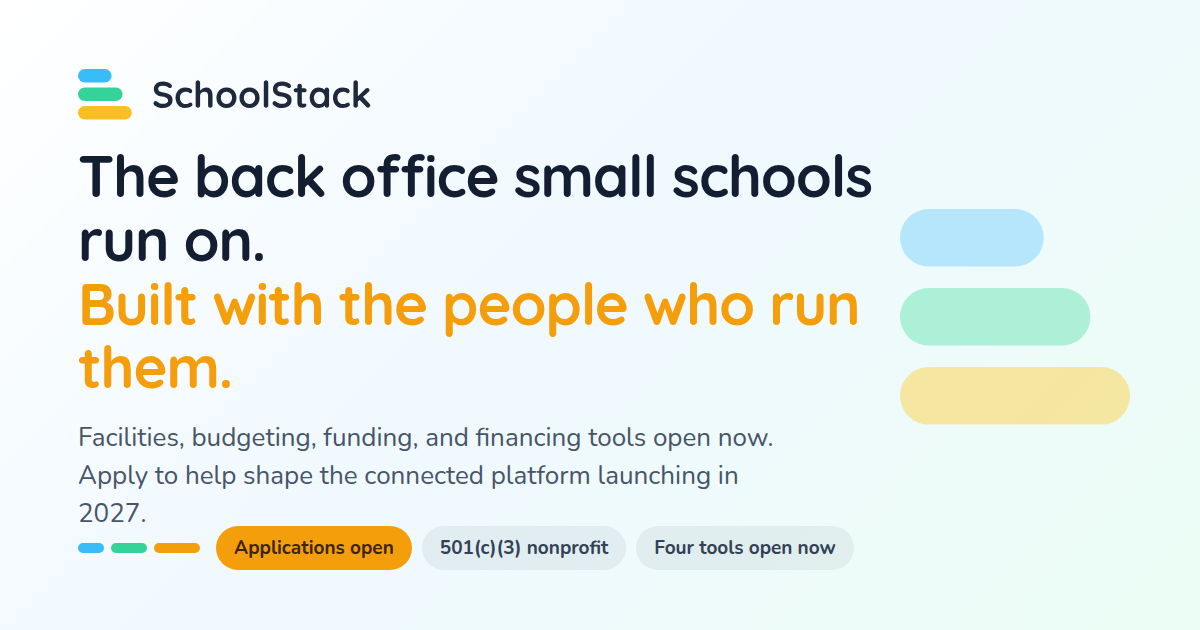
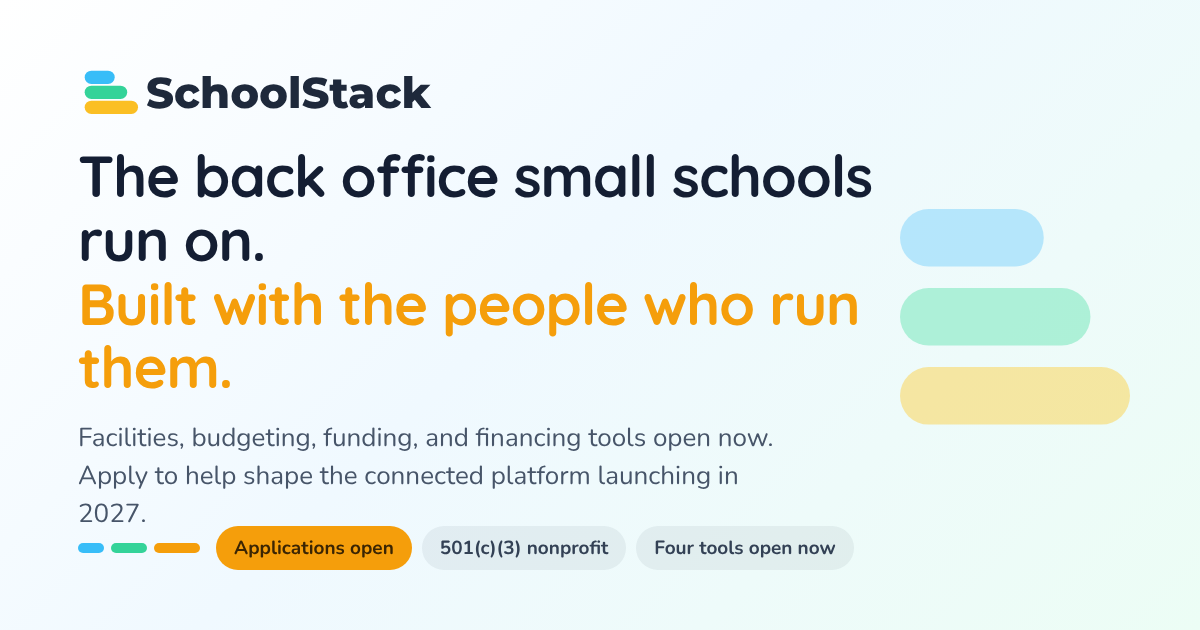
Ship the new SchoolStack wordmark
The owner supplied a new primary logo: the same three bars, tighter and
longer, with the wordmark as outlined paths. It replaces the old
wordmark in the nav, the footer, and the share card.

The files take a content hash in their names because _headers caches
/assets/* for a year as immutable; a same-name swap would leave returning
visitors on the old logo. The white footer variant uses the same lighter
tints the previous white file used. The old two files are removed.

The favicons and app icons are untouched: their geometry is shared with
Space and Budget, and CLAUDE.md now says so next to the logo rules.

Claude-Session: https://claude.ai/code/session_01CQWWvhURZNSocCKQ6qZ79V

diff --git a/tools/og-image.html b/tools/og-image.html
@@ -41,7 +41,7 @@
   .logo {
     position: absolute;
     top: 64px; left: 78px;
-    width: 300px; height: auto;
+    width: 360px; height: auto;
     display: block;
   }
 
@@ -114,11 +114,11 @@
     <rect x="0" y="50" width="64" height="16" rx="8" fill="#FCD34D"></rect>
   </svg>
 
-  <svg class="logo" viewBox="0 0 357 71" xmlns="http://www.w3.org/2000/svg" role="img" aria-label="SchoolStack">
-    <rect x="0" y="6"  width="40" height="16" rx="8" fill="#38BDF8"></rect>
-    <rect x="0" y="28" width="53" height="16" rx="8" fill="#34D399"></rect>
-    <rect x="0" y="50" width="64" height="16" rx="8" fill="#FBBF24"></rect>
-    <path fill="#1E293B" d="M101.2 52.4L101.2 52.4Q98.1 52.4 95.7 51.7Q93.2 50.9 90.9 49L90.9 49Q90.4 48.5 90.1 47.9Q89.8 47.2 89.8 46.6L89.8 46.6Q89.8 45.6 90.5 44.9Q91.2 44.1 92.3 44.1L92.3 44.1Q93.1 44.1 93.8 44.6L93.8 44.6Q95.5 46 97.1 46.7Q98.8 47.4 101.2 47.4L101.2 47.4Q102.8 47.4 104.2 46.9Q105.6 46.4 106.4 45.5Q107.2 44.7 107.2 43.6L107.2 43.6Q107.2 42.2 106.4 41.3Q105.6 40.4 104 39.7Q102.4 39.1 99.9 38.8L99.9 38.8Q97.5 38.4 95.7 37.7Q93.9 37 92.7 35.8Q91.5 34.7 90.9 33.2Q90.2 31.7 90.2 29.8L90.2 29.8Q90.2 26.9 91.7 24.9Q93.2 22.9 95.7 21.8Q98.2 20.8 101.2 20.8L101.2 20.8Q104.1 20.8 106.5 21.6Q109 22.5 110.5 23.8L110.5 23.8Q111.8 24.8 111.8 26.1L111.8 26.1Q111.8 27.1 111.1 27.9Q110.3 28.7 109.3 28.7L109.3 28.7Q108.6 28.7 108.1 28.3L108.1 28.3Q107.4 27.7 106.2 27.1Q105 26.6 103.7 26.2Q102.4 25.8 101.2 25.8L101.2 25.8Q99.4 25.8 98.1 26.3Q96.8 26.8 96.1 27.6Q95.4 28.5 95.4 29.6L95.4 29.6Q95.4 30.9 96.2 31.7Q97 32.6 98.4 33.1Q99.9 33.6 101.9 34L101.9 34Q104.5 34.5 106.5 35.1Q108.5 35.8 109.9 36.8Q111.2 37.9 111.8 39.4Q112.5 41 112.5 43.2L112.5 43.2Q112.5 46.1 110.9 48.2Q109.3 50.2 106.8 51.3Q104.2 52.4 101.2 52.4ZM127.6 28L127.6 28Q130.1 28 132 28.5Q133.8 29.1 134.9 30Q135.9 31 135.9 32.3L135.9 32.3Q135.9 33.2 135.4 33.9Q134.9 34.7 133.8 34.7L133.8 34.7Q133.1 34.7 132.7 34.5Q132.2 34.3 131.9 34Q131.5 33.7 131 33.4L131 33.4Q130.6 33.2 129.7 33Q128.8 32.9 128.3 32.9L128.3 32.9Q126.1 32.9 124.5 33.8Q123 34.8 122.1 36.4Q121.3 38.1 121.3 40.3L121.3 40.3Q121.3 42.4 122.2 44Q123 45.7 124.5 46.6Q126.1 47.6 128 47.6L128 47.6Q129.1 47.6 129.9 47.5Q130.7 47.3 131.3 47.1L131.3 47.1Q131.9 46.7 132.4 46.3Q132.8 45.9 133.8 45.9L133.8 45.9Q134.9 45.9 135.6 46.7Q136.2 47.4 136.2 48.4L136.2 48.4Q136.2 49.5 134.9 50.4Q133.7 51.3 131.7 51.9Q129.7 52.4 127.4 52.4L127.4 52.4Q123.9 52.4 121.4 50.8Q118.8 49.2 117.4 46.5Q116 43.7 116 40.3L116 40.3Q116 36.6 117.5 33.9Q119 31.1 121.6 29.6Q124.2 28 127.6 28ZM152.4 28L152.4 28Q155.5 28 157.2 29.4Q158.8 30.7 159.5 33Q160.1 35.3 160.1 38.1L160.1 38.1L160.1 49.3Q160.1 50.5 159.3 51.2Q158.6 52 157.4 52Q156.3 52 155.5 51.2Q154.8 50.5 154.8 49.3L154.8 49.3L154.8 38.1Q154.8 36.6 154.4 35.4Q154.1 34.3 153.2 33.6Q152.2 32.9 150.5 32.9L150.5 32.9Q148.9 32.9 147.7 33.6Q146.5 34.3 145.9 35.4Q145.3 36.6 145.3 38.1L145.3 38.1L145.3 49.3Q145.3 50.5 144.5 51.2Q143.8 52 142.6 52Q141.5 52 140.8 51.2Q140 50.5 140 49.3L140 49.3L140 22.1Q140 21 140.8 20.2Q141.5 19.4 142.6 19.4Q143.8 19.4 144.5 20.2Q145.3 21 145.3 22.1L145.3 22.1L145.3 31.8Q145.5 31.6 145.7 31.3L145.7 31.3Q146.4 30.4 147.4 29.7Q148.5 28.9 149.7 28.5Q150.9 28 152.4 28ZM188.6 40.3L188.6 40.3Q188.6 43.9 187 46.6Q185.4 49.4 182.7 50.9Q180 52.4 176.7 52.4L176.7 52.4Q173.3 52.4 170.6 50.9Q167.9 49.4 166.3 46.6Q164.7 43.9 164.7 40.3L164.7 40.3Q164.7 36.6 166.3 33.9Q167.9 31.1 170.6 29.6Q173.3 28 176.7 28L176.7 28Q180 28 182.7 29.6Q185.4 31.1 187 33.9Q188.6 36.6 188.6 40.3ZM183.3 40.3L183.3 40.3Q183.3 38 182.4 36.4Q181.5 34.7 180 33.8Q178.5 32.9 176.7 32.9L176.7 32.9Q174.8 32.9 173.3 33.8Q171.8 34.7 170.9 36.4Q170 38 170 40.3L170 40.3Q170 42.5 170.9 44.1Q171.8 45.8 173.3 46.7Q174.8 47.6 176.7 47.6L176.7 47.6Q178.5 47.6 180 46.7Q181.5 45.8 182.4 44.1Q183.3 42.5 183.3 40.3ZM216.1 40.3L216.1 40.3Q216.1 43.9 214.5 46.6Q212.9 49.4 210.2 50.9Q207.5 52.4 204.1 52.4L204.1 52.4Q200.8 52.4 198.1 50.9Q195.4 49.4 193.8 46.6Q192.1 43.9 192.1 40.3L192.1 40.3Q192.1 36.6 193.8 33.9Q195.4 31.1 198.1 29.6Q200.8 28 204.1 28L204.1 28Q207.5 28 210.2 29.6Q212.9 31.1 214.5 33.9Q216.1 36.6 216.1 40.3ZM210.8 40.3L210.8 40.3Q210.8 38 209.9 36.4Q209 34.7 207.5 33.8Q206 32.9 204.1 32.9L204.1 32.9Q202.3 32.9 200.7 33.8Q199.2 34.7 198.3 36.4Q197.4 38 197.4 40.3L197.4 40.3Q197.4 42.5 198.3 44.1Q199.2 45.8 200.7 46.7Q202.3 47.6 204.1 47.6L204.1 47.6Q206 47.6 207.5 46.7Q209 45.8 209.9 44.1Q210.8 42.5 210.8 40.3ZM226.4 22.1L226.4 49.3Q226.4 50.5 225.7 51.2Q224.9 52 223.7 52L223.7 52Q222.6 52 221.9 51.2Q221.1 50.5 221.1 49.3L221.1 49.3L221.1 22.1Q221.1 21 221.9 20.2Q222.7 19.4 223.8 19.4L223.8 19.4Q225 19.4 225.7 20.2Q226.4 21 226.4 22.1L226.4 22.1ZM242.9 52.4L242.9 52.4Q239.8 52.4 237.4 51.7Q234.9 50.9 232.7 49L232.7 49Q232.1 48.5 231.8 47.9Q231.5 47.2 231.5 46.6L231.5 46.6Q231.5 45.6 232.2 44.9Q232.9 44.1 234 44.1L234 44.1Q234.9 44.1 235.5 44.6L235.5 44.6Q237.2 46 238.9 46.7Q240.5 47.4 242.9 47.4L242.9 47.4Q244.6 47.4 245.9 46.9Q247.3 46.4 248.1 45.5Q249 44.7 249 43.6L249 43.6Q249 42.2 248.2 41.3Q247.4 40.4 245.7 39.7Q244.1 39.1 241.6 38.8L241.6 38.8Q239.2 38.4 237.4 37.7Q235.6 37 234.4 35.8Q233.2 34.7 232.6 33.2Q232 31.7 232 29.8L232 29.8Q232 26.9 233.4 24.9Q234.9 22.9 237.4 21.8Q239.9 20.8 243 20.8L243 20.8Q245.8 20.8 248.3 21.6Q250.7 22.5 252.3 23.8L252.3 23.8Q253.5 24.8 253.5 26.1L253.5 26.1Q253.5 27.1 252.8 27.9Q252 28.7 251 28.7L251 28.7Q250.4 28.7 249.8 28.3L249.8 28.3Q249.1 27.7 247.9 27.1Q246.8 26.6 245.4 26.2Q244.1 25.8 243 25.8L243 25.8Q241.1 25.8 239.8 26.3Q238.5 26.8 237.8 27.6Q237.2 28.5 237.2 29.6L237.2 29.6Q237.2 30.9 237.9 31.7Q238.7 32.6 240.2 33.1Q241.6 33.6 243.6 34L243.6 34Q246.3 34.5 248.3 35.1Q250.3 35.8 251.6 36.8Q252.9 37.9 253.6 39.4Q254.2 41 254.2 43.2L254.2 43.2Q254.2 46.1 252.6 48.2Q251.1 50.2 248.5 51.3Q245.9 52.4 242.9 52.4ZM259.1 28.9L259.1 28.9L261.1 28.9L261.1 26.1Q261.1 24.9 261.9 24.2Q262.7 23.4 263.8 23.4Q265 23.4 265.7 24.2Q266.4 24.9 266.4 26.1L266.4 26.1L266.4 28.9L269.5 28.9Q270.6 28.9 271.3 29.6Q272 30.3 272 31.4L272 31.4Q272 32.4 271.3 33.1Q270.6 33.7 269.5 33.7L269.5 33.7L266.4 33.7L266.4 45.7Q266.4 46.3 266.7 46.7Q266.9 47.1 267.3 47.2Q267.7 47.4 268.2 47.4L268.2 47.4Q268.8 47.4 269.2 47.2Q269.6 47 270.2 47L270.2 47Q270.8 47 271.3 47.6Q271.8 48.2 271.8 49.2L271.8 49.2Q271.8 50.4 270.5 51.2Q269.1 52 267.6 52L267.6 52Q266.7 52 265.6 51.8Q264.4 51.7 263.5 51.1Q262.5 50.5 261.8 49.3Q261.1 48 261.1 45.9L261.1 45.9L261.1 33.7L259.1 33.7Q258.1 33.7 257.4 33Q256.7 32.3 256.7 31.3L256.7 31.3Q256.7 30.3 257.4 29.6Q258.1 28.9 259.1 28.9ZM296.1 28L296.1 28Q297.3 28 298 28.8Q298.8 29.5 298.8 30.7L298.8 30.7L298.8 49.3Q298.8 50.5 298 51.2Q297.3 52 296.1 52Q295 52 294.2 51.2L294.2 51.2Q293.5 50.5 293.5 49.4L293.5 49.4Q293 50 292.2 50.5L292.2 50.5Q291.1 51.3 289.7 51.9Q288.2 52.4 286.6 52.4L286.6 52.4Q283.5 52.4 281.1 50.9Q278.6 49.3 277.2 46.6Q275.7 43.8 275.7 40.3L275.7 40.3Q275.7 36.6 277.2 33.9Q278.6 31.1 281 29.6Q283.4 28 286.4 28L286.4 28Q288.3 28 289.9 28.6Q291.5 29.2 292.6 30L292.6 30Q293.1 30.4 293.5 30.7L293.5 30.7L293.5 30.7Q293.5 29.6 294.2 28.8Q295 28 296.1 28ZM287.2 47.6L287.2 47.6Q289.2 47.6 290.6 46.6Q292.1 45.7 292.9 44Q293.7 42.3 293.7 40.3L293.7 40.3Q293.7 38.1 292.9 36.5Q292.1 34.8 290.6 33.8Q289.2 32.9 287.2 32.9L287.2 32.9Q285.3 32.9 283.9 33.8Q282.4 34.8 281.6 36.5Q280.8 38.1 280.8 40.3L280.8 40.3Q280.8 42.3 281.6 44Q282.4 45.7 283.9 46.6Q285.3 47.6 287.2 47.6ZM315 28L315 28Q317.5 28 319.3 28.5Q321.2 29.1 322.2 30Q323.3 31 323.3 32.3L323.3 32.3Q323.3 33.2 322.7 33.9Q322.2 34.7 321.2 34.7L321.2 34.7Q320.5 34.7 320 34.5Q319.6 34.3 319.2 34Q318.9 33.7 318.4 33.4L318.4 33.4Q317.9 33.2 317 33Q316.1 32.9 315.7 32.9L315.7 32.9Q313.5 32.9 311.9 33.8Q310.3 34.8 309.5 36.4Q308.7 38.1 308.7 40.3L308.7 40.3Q308.7 42.4 309.5 44Q310.4 45.7 311.9 46.6Q313.4 47.6 315.4 47.6L315.4 47.6Q316.5 47.6 317.3 47.5Q318.1 47.3 318.6 47.1L318.6 47.1Q319.2 46.7 319.7 46.3Q320.2 45.9 321.2 45.9L321.2 45.9Q322.3 45.9 322.9 46.7Q323.5 47.4 323.5 48.4L323.5 48.4Q323.5 49.5 322.3 50.4Q321.1 51.3 319.1 51.9Q317.1 52.4 314.7 52.4L314.7 52.4Q311.3 52.4 308.7 50.8Q306.2 49.2 304.8 46.5Q303.4 43.7 303.4 40.3L303.4 40.3Q303.4 36.6 304.9 33.9Q306.3 31.1 308.9 29.6Q311.6 28 315 28ZM330.4 52L330.4 52Q329.3 52 328.5 51.2Q327.8 50.5 327.8 49.3L327.8 49.3L327.8 22.1Q327.8 21 328.5 20.2Q329.3 19.4 330.4 19.4Q331.6 19.4 332.3 20.2Q333.1 21 333.1 22.1L333.1 22.1L333.1 38.4L342.5 29.3Q343.3 28.5 344.4 28.5L344.4 28.5Q345.4 28.5 346.2 29.3Q346.9 30.1 346.9 30.9L346.9 30.9Q346.9 32 345.9 32.9L345.9 32.9L339.2 39L346.9 47.4Q347.8 48.3 347.8 49.4L347.8 49.4Q347.8 50.5 346.9 51.2Q346 52 345.1 52L345.1 52Q343.9 52 343.2 51.1L343.2 51.1L335.2 42.7L333.1 44.7L333.1 49.3Q333.1 50.5 332.3 51.2Q331.6 52 330.4 52Z"></path>
+  <svg class="logo" viewBox="0 0 1296 204" xmlns="http://www.w3.org/2000/svg" role="img" aria-label="SchoolStack">
+    <rect x="24" y="24" width="108" height="48" rx="24" fill="#38BDF8"/>
+    <rect x="24" y="78" width="153" height="48" rx="24" fill="#34D399"/>
+    <rect x="24" y="132" width="192" height="48" rx="24" fill="#FBBF24"/>
+    <path fill="#1E293B" d="M293.9298 160.8524Q280.5401 160.8524 268.0845 157.5828Q255.629 154.3132 248 148.8639L258.1201 126.1326Q265.4377 130.9591 275.0908 133.9173Q284.7438 136.8755 294.0854 136.8755Q303.5828 136.8755 307.7087 134.3844Q311.8346 131.8933 311.8346 128.0009Q311.8346 124.2643 308.4872 122.0845Q305.1397 119.9048 299.6126 118.5036Q294.0854 117.1023 287.4685 115.7011Q280.8515 114.2998 274.2345 112.198Q267.6175 110.0961 262.0903 106.5151Q256.5632 102.9342 253.2158 97.1735Q249.8683 91.4128 249.8683 82.8496Q249.8683 73.1966 255.2398 65.1783Q260.6112 57.1601 271.2763 52.3336Q281.9413 47.5071 298.1335 47.5071Q308.7207 47.5071 319.1522 49.9203Q329.5837 52.3336 337.6798 57.0044L328.1825 79.8914Q320.3977 75.6877 312.7687 73.5858Q305.1397 71.484 297.9778 71.484Q288.3248 71.484 284.3546 74.3643Q280.3844 77.2446 280.3844 81.2927Q280.3844 84.8737 283.7318 86.8977Q287.0792 88.9217 292.6064 90.3229Q298.1335 91.7242 304.7505 93.1254Q311.3675 94.5267 317.9066 96.6286Q324.4458 98.7304 329.9729 102.2335Q335.5001 105.7367 338.8475 111.4195Q342.1949 117.1023 342.1949 125.6655Q342.1949 135.1628 336.9013 143.1811Q331.6077 151.1993 320.8648 156.0258Q310.1219 160.8524 293.9298 160.8524ZM398.0891 160.0739Q383.9209 160.0739 373.0224 154.4689Q362.1238 148.8639 355.896 139.0552Q349.6682 129.2465 349.6682 116.3239Q349.6682 103.7126 355.896 93.8261Q362.1238 83.9395 373.0224 78.4123Q383.9209 72.8852 398.0891 72.8852Q412.413 72.8852 422.8445 78.9573Q433.276 85.0293 437.6354 96.0836L414.7484 107.7607Q411.7902 101.8443 407.4307 99.1197Q403.0713 96.395 397.9334 96.395Q390.3044 96.395 384.9329 101.6108Q379.5615 106.8265 379.5615 116.3239Q379.5615 126.1326 384.9329 131.3483Q390.3044 136.5641 397.9334 136.5641Q403.0713 136.5641 407.4307 133.8394Q411.7902 131.1148 414.7484 125.1984L437.6354 136.8755Q433.276 147.7741 422.8445 153.924Q412.413 160.0739 398.0891 160.0739ZM448.534 158.6726V43.1476H478.1159V82.0712Q483.0981 77.4003 489.5594 75.1428Q496.0207 72.8852 503.494 72.8852Q513.3027 72.8852 521.2431 76.8554Q529.1835 80.8256 533.7765 89.0774Q538.3695 97.3292 538.3695 110.4075V158.6726H508.7876V115.234Q508.7876 106.2037 505.0509 102.0778Q501.3143 97.952 494.9308 97.952Q487.7689 97.952 482.9424 102.7006Q478.1159 107.4493 478.1159 117.8808V158.6726ZM600.3357 160.0739Q586.4789 160.0739 575.736 154.4689Q564.9932 148.8639 558.8432 138.9773Q552.6933 129.0908 552.6933 116.3239Q552.6933 103.7126 558.8432 93.8261Q564.9932 83.9395 575.736 78.4123Q586.4789 72.8852 600.3357 72.8852Q614.1925 72.8852 625.0132 78.4123Q635.834 83.9395 641.906 93.8261Q647.9781 103.7126 647.9781 116.3239Q647.9781 129.0908 641.906 138.9773Q635.834 148.8639 625.0132 154.4689Q614.1925 160.0739 600.3357 160.0739ZM600.3357 136.5641Q607.9647 136.5641 613.0248 131.2705Q618.0848 125.9769 618.0848 116.3239Q618.0848 106.8265 613.0248 101.6108Q607.9647 96.395 600.3357 96.395Q592.8624 96.395 587.7245 101.6108Q582.5866 106.8265 582.5866 116.3239Q582.5866 125.9769 587.7245 131.2705Q592.8624 136.5641 600.3357 136.5641ZM704.028 160.0739Q690.1712 160.0739 679.4283 154.4689Q668.6854 148.8639 662.5355 138.9773Q656.3856 129.0908 656.3856 116.3239Q656.3856 103.7126 662.5355 93.8261Q668.6854 83.9395 679.4283 78.4123Q690.1712 72.8852 704.028 72.8852Q717.8847 72.8852 728.7055 78.4123Q739.5262 83.9395 745.5983 93.8261Q751.6704 103.7126 751.6704 116.3239Q751.6704 129.0908 745.5983 138.9773Q739.5262 148.8639 728.7055 154.4689Q717.8847 160.0739 704.028 160.0739ZM704.028 136.5641Q711.657 136.5641 716.717 131.2705Q721.7771 125.9769 721.7771 116.3239Q721.7771 106.8265 716.717 101.6108Q711.657 96.395 704.028 96.395Q696.5547 96.395 691.4168 101.6108Q686.2789 106.8265 686.2789 116.3239Q686.2789 125.9769 691.4168 131.2705Q696.5547 136.5641 704.028 136.5641ZM765.3714 158.6726V43.1476H794.9533V158.6726ZM853.8057 160.8524Q840.416 160.8524 827.9605 157.5828Q815.5049 154.3132 807.8759 148.8639L817.996 126.1326Q825.3137 130.9591 834.9667 133.9173Q844.6197 136.8755 853.9614 136.8755Q863.4587 136.8755 867.5846 134.3844Q871.7105 131.8933 871.7105 128.0009Q871.7105 124.2643 868.3631 122.0845Q865.0157 119.9048 859.4885 118.5036Q853.9614 117.1023 847.3444 115.7011Q840.7274 114.2998 834.1104 112.198Q827.4934 110.0961 821.9662 106.5151Q816.4391 102.9342 813.0917 97.1735Q809.7443 91.4128 809.7443 82.8496Q809.7443 73.1966 815.1157 65.1783Q820.4872 57.1601 831.1522 52.3336Q841.8172 47.5071 858.0094 47.5071Q868.5966 47.5071 879.0281 49.9203Q889.4596 52.3336 897.5557 57.0044L888.0584 79.8914Q880.2737 75.6877 872.6447 73.5858Q865.0157 71.484 857.8537 71.484Q848.2007 71.484 844.2305 74.3643Q840.2603 77.2446 840.2603 81.2927Q840.2603 84.8737 843.6077 86.8977Q846.9551 88.9217 852.4823 90.3229Q858.0094 91.7242 864.6264 93.1254Q871.2434 94.5267 877.7826 96.6286Q884.3217 98.7304 889.8489 102.2335Q895.376 105.7367 898.7234 111.4195Q902.0709 117.1023 902.0709 125.6655Q902.0709 135.1628 896.7773 143.1811Q891.4837 151.1993 880.7408 156.0258Q869.9979 160.8524 853.8057 160.8524ZM952.5157 160.0739Q936.3236 160.0739 927.2933 152.0556Q918.263 144.0374 918.263 127.8452V96.2393H905.9632V74.2865H918.263V55.4475H947.8449V74.2865H967.151V96.2393H947.8449V127.5338Q947.8449 132.2047 950.2582 134.6958Q952.6714 137.1869 956.7195 137.1869Q961.8574 137.1869 965.7497 134.5401L973.0674 155.2474Q969.175 157.7385 963.7257 158.9062Q958.2764 160.0739 952.5157 160.0739ZM1033.321 158.6726V147.9298Q1026.7818 160.0739 1008.4099 160.0739Q993.3076 160.0739 985.1336 152.6006Q976.9597 145.1273 976.9597 134.073Q976.9597 122.3959 985.9121 115.6232Q994.8645 108.8505 1014.482 108.8505H1031.2969Q1030.8299 102.4671 1026.5483 98.964Q1022.2667 95.4608 1013.3921 95.4608Q1007.3201 95.4608 1001.0923 97.407Q994.8645 99.3532 990.5051 102.7785L980.5407 82.6939Q987.7026 78.0231 997.7449 75.4542Q1007.7871 72.8852 1017.7516 72.8852Q1038.3032 72.8852 1049.591 82.3047Q1060.8788 91.7242 1060.8788 111.8087V158.6726ZM1031.2969 131.5819V124.2643H1018.53Q1011.3681 124.2643 1008.4878 126.5997Q1005.6074 128.9351 1005.6074 132.8274Q1005.6074 136.5641 1008.5656 138.9773Q1011.5238 141.3906 1016.6617 141.3906Q1021.4882 141.3906 1025.4584 138.9773Q1029.4286 136.5641 1031.2969 131.5819ZM1123.7792 160.0739Q1109.6111 160.0739 1098.7125 154.4689Q1087.8139 148.8639 1081.5861 139.0552Q1075.3584 129.2465 1075.3584 116.3239Q1075.3584 103.7126 1081.5861 93.8261Q1087.8139 83.9395 1098.7125 78.4123Q1109.6111 72.8852 1123.7792 72.8852Q1138.1031 72.8852 1148.5346 78.9573Q1158.9661 85.0293 1163.3255 96.0836L1140.4385 107.7607Q1137.4803 101.8443 1133.1209 99.1197Q1128.7614 96.395 1123.6235 96.395Q1115.9945 96.395 1110.6231 101.6108Q1105.2516 106.8265 1105.2516 116.3239Q1105.2516 126.1326 1110.6231 131.3483Q1115.9945 136.5641 1123.6235 136.5641Q1128.7614 136.5641 1133.1209 133.8394Q1137.4803 131.1148 1140.4385 125.1984L1163.3255 136.8755Q1158.9661 147.7741 1148.5346 153.924Q1138.1031 160.0739 1123.7792 160.0739ZM1174.2241 158.6726V43.1476H1203.806V103.5569L1234.0106 74.2865H1269.0418L1234.0106 110.4075L1272 158.6726H1236.1904L1212.6806 129.0908L1203.806 137.9653V158.6726Z"/>
   </svg>
 
   <div class="content">

diff --git a/index.html b/index.html
@@ -752,7 +752,7 @@
   <!-- NAV -->
   <nav>
     <a href="/" class="nav-brand" aria-label="SchoolStack home">
-      <img src="assets/logos/schoolstack-logo.svg" alt="SchoolStack" width="357" height="71">
+      <img src="assets/logos/schoolstack-logo.5df767fb.svg" alt="SchoolStack" width="1296" height="204">
     </a>
     <div class="nav-links">
       <a href="#tools">The tools</a>
@@ -1152,7 +1152,7 @@
     <div class="footer-inner">
       <div class="footer-top">
         <div class="footer-brand">
-          <img src="assets/logos/schoolstack-logo-white.svg" alt="SchoolStack" width="357" height="71">
+          <img src="assets/logos/schoolstack-logo-white.5df767fb.svg" alt="SchoolStack" width="1296" height="204">
           <p>The back office small schools run on. Built by a founder, for founders.</p>
         </div>
         <div class="footer-col">

diff --git a/CLAUDE.md b/CLAUDE.md
@@ -33,6 +33,14 @@ from Budget's favicon so the products read as one family — the numbers live in
 than drifting to look good alone. SchoolStack is the parent brand, so it
 carries all three founding hues where the product marks each use one.
 
+**The wordmark is owner-supplied artwork.** It lives as outlined paths in
+`assets/logos/schoolstack-logo.<hash>.svg` with a white-on-navy twin for the
+footer, so the site loads no font for it. Its bars are tighter and longer than
+the icon geometry above; the icons keep the family geometry until the owner
+says otherwise. `_headers` caches `/assets/*` for a year as immutable, so a
+changed logo takes a new hash in its name. A same-name swap leaves returning
+visitors on the old file.
+
 ## 2. Voice: asset-based, never deficit-framed
 
 The reader is a capable founder running a real business. Write to their
